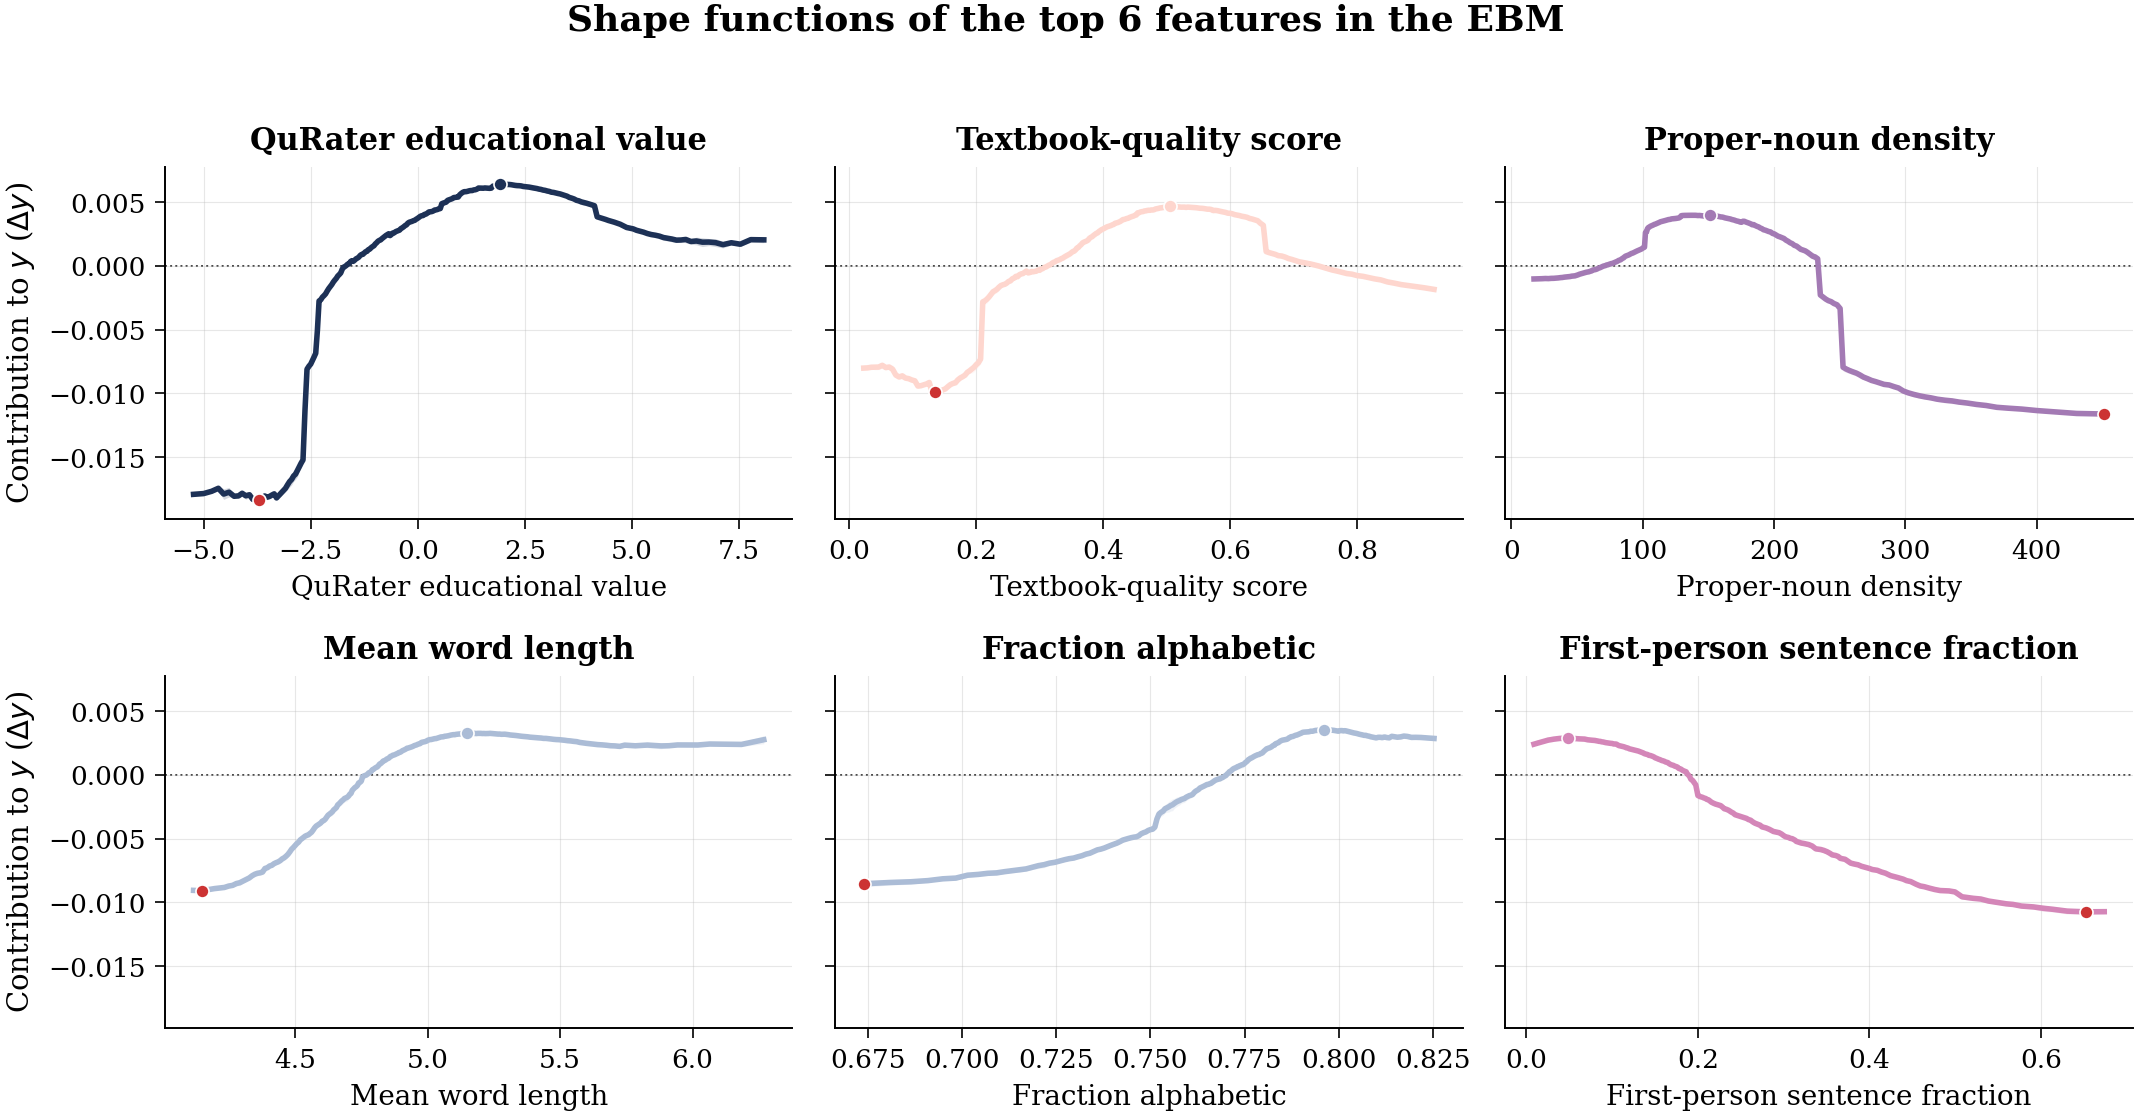
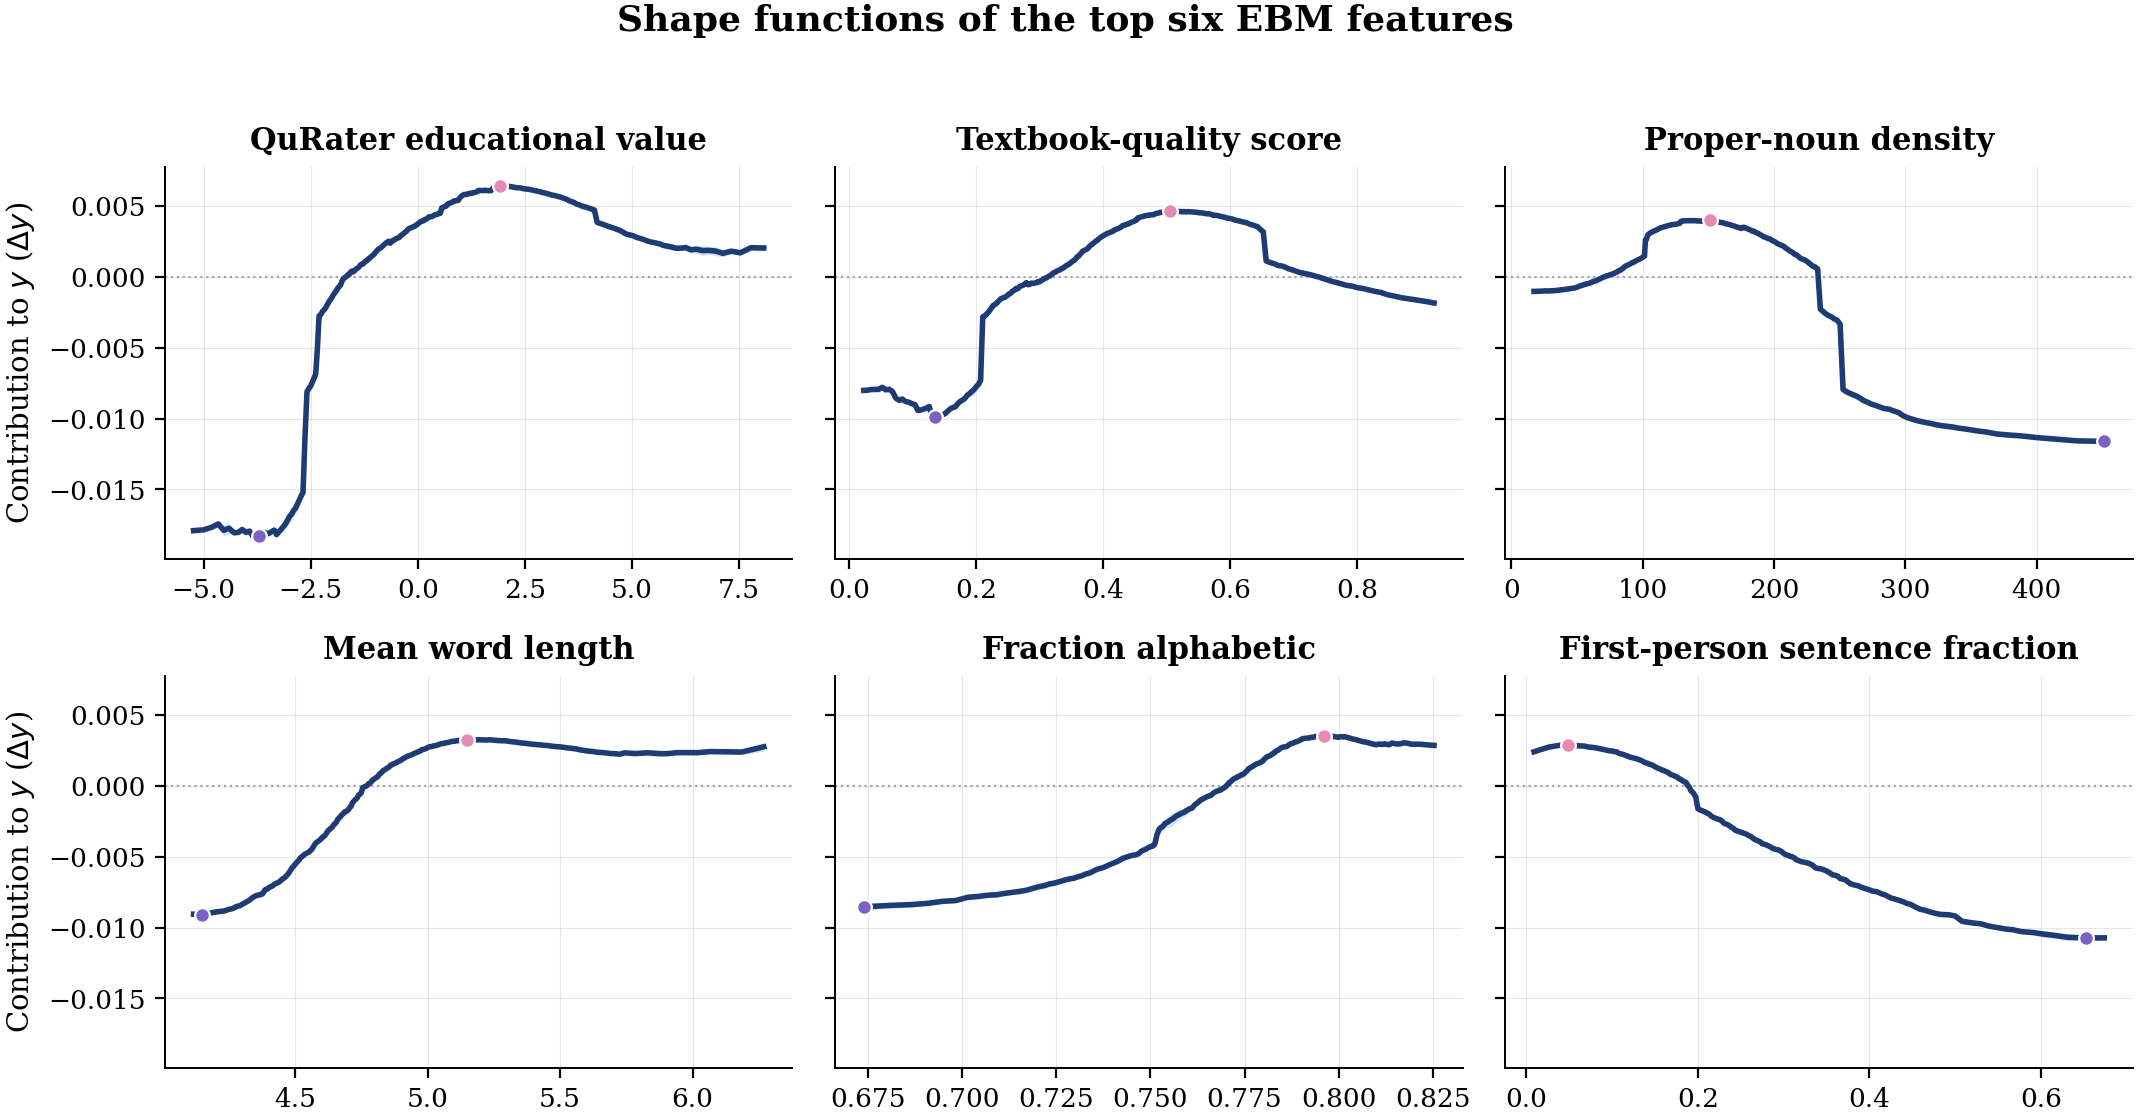
update readme and figures

diff --git a/pipeline/scripts/13_make_figures.py b/pipeline/scripts/13_make_figures.py
@@ -1,4 +1,4 @@
-"""Paper figures for the swarm target and the EBM.
+"""Figures for the swarm target and the EBM.
 
 Writes to figures/:
   swarm_val_loss.png    validation loss across the 593 diagnostic runs
@@ -30,6 +30,7 @@ HERE = Path(__file__).resolve().parents[1]
 sys.path.insert(0, str(HERE))
 from config import DATA_DIR, MASKS_DIR, MASTER_PARQUET, MODELS_DIR, RESULTS_DIR  # noqa: E402
 from pretrain_quality import paths  # noqa: E402
+from pretrain_quality.palette import DARK_BLUE, GRAY, LIGHT_BLUE, PINK, PURPLE  # noqa: E402
 
 OUT = paths.REPO_ROOT / "figures"
 
@@ -52,6 +53,7 @@ rcParams.update({
     "grid.color": "#bbbbbb",
     "savefig.bbox": "tight",
     "savefig.pad_inches": 0.02,
+    "savefig.facecolor": "white",
 })
 
 PRETTY_FEATURE = {
@@ -72,39 +74,17 @@ PRETTY_FEATURE = {
     "mean_line_length": "Mean line length",
 }
 
-FAMILY_COLOR = {
-    "QuRater": "#1d3156",
-    "Textbook": "#fed6ce",
-    "Entity": "#a37ab4",
-    "Structural": "#d486b8",
-    "Length": "#abbcd6",
-}
 
 RUN_TYPE = {  # selection family -> (colour, legend label)
-    "single_threshold": ("#f4a8a8", "single-feature threshold"),
-    "multi_intersection": ("#f6c79a", "multi-feature intersection"),
-    "linear_top": ("#f3e29a", "random linear combination"),
-    "linear_top_simple": ("#c7e6b2", "linear combination (simple)"),
-    "targeted_top": ("#a8d8c9", "targeted filter baselines"),
-    "within_topic_top": ("#a8c8ec", "within-topic top-k"),
-    "dclm_top_then_restrict": ("#c9b3e3", "DCLM-restricted"),
-    "random": ("#f1b6da", "random subset"),
+    "single_threshold": (DARK_BLUE, "single-feature threshold"),
+    "multi_intersection": (PURPLE, "multi-feature intersection"),
+    "linear_top": (PINK, "random linear combination"),
+    "linear_top_simple": (LIGHT_BLUE, "linear combination (simple)"),
+    "targeted_top": ("#4f6aa3", "targeted filter baselines"),
+    "within_topic_top": ("#b3a3e0", "within-topic top-k"),
+    "dclm_top_then_restrict": ("#f3bfd7", "DCLM-restricted"),
+    "random": (GRAY, "random subset"),
 }
-
-
-def feature_family(name: str) -> str:
-    if name.startswith("qr_"):
-        return "QuRater"
-    if name in ("textbook_quality", "ai_generated"):
-        return "Textbook"
-    if name in ("entity_density", "entity_diversity", "entity_per_sentence",
-                "proper_noun_density", "numeric_density"):
-        return "Entity"
-    if name.startswith(("discourse_", "explanation_", "question_", "pronoun_",
-                        "first_person_", "hedge_", "hapax_", "header_", "code_",
-                        "list_", "avg_paragraph", "flesch")):
-        return "Structural"
-    return "Length"
 
 
 def load_runs() -> pd.DataFrame:
@@ -178,20 +158,20 @@ def fig_target_overview(df: pd.DataFrame, y: np.ndarray, runs: pd.DataFrame) -> 
 
     fig, axes = plt.subplots(2, 3, figsize=(15, 9))
     ax = axes[0, 0]
-    ax.hist(y, bins=80, color="#4c78a8", edgecolor="white", linewidth=0.3)
+    ax.hist(y, bins=80, color=DARK_BLUE, edgecolor="white", linewidth=0.3)
     ax.axvline(0, color="k", ls="--", lw=1)
     ax.set_xlabel("Document contribution $y$")
     ax.set_ylabel("Documents")
     ax.set_title(f"Distribution of $y$ (n = {len(y):,})")
 
     ax = axes[0, 1]
-    ax.hist(coverage, bins=50, color="#f58518", edgecolor="white", linewidth=0.3)
+    ax.hist(coverage, bins=50, color=PURPLE, edgecolor="white", linewidth=0.3)
     ax.set_xlabel("Swarm runs that include the document")
     ax.set_ylabel("Documents")
     ax.set_title(f"Run coverage (mean {coverage.mean():.1f}, median {np.median(coverage):.0f})")
 
     ax = axes[0, 2]
-    ax.hist(runs["val_loss"], bins=40, color="#54a24b", edgecolor="white", linewidth=0.3)
+    ax.hist(runs["val_loss"], bins=40, color=PINK, edgecolor="white", linewidth=0.3)
     ax.set_xlabel("Validation loss")
     ax.set_ylabel("Runs")
     ax.set_title(f"Validation loss per run (n = {len(runs)})")
@@ -213,7 +193,7 @@ def fig_target_overview(df: pd.DataFrame, y: np.ndarray, runs: pd.DataFrame) -> 
     fwe = df["fwedu_rounded"].to_numpy()[ok].astype(int)
     ax.boxplot([y[ok][fwe == k] for k in range(6)], positions=range(6), widths=0.6,
                showfliers=False, patch_artist=True,
-               boxprops=dict(facecolor="#e45756", alpha=0.5))
+               boxprops=dict(facecolor=PINK, alpha=0.5))
     ax.axhline(0, color="k", ls="--", lw=1)
     ax.set_xlabel("FineWeb-Edu score (rounded, 0-5)")
     ax.set_ylabel("$y$")
@@ -232,16 +212,16 @@ def fig_calibration(df: pd.DataFrame, y: np.ndarray, in_pool: np.ndarray) -> Non
     r2 = 1 - ((y_te - p_te) ** 2).sum() / ((y_te - y_te.mean()) ** 2).sum()
 
     fig, ax = plt.subplots(figsize=(5.6, 4.4))
-    hb = ax.hexbin(p_te, y_te, gridsize=70, cmap="BuPu", mincnt=3,
+    hb = ax.hexbin(p_te, y_te, gridsize=70, cmap="Purples", mincnt=3,
                    extent=(-0.13, 0.11, -0.18, 0.14))
-    ax.plot((-0.18, 0.14), (-0.18, 0.14), color="#d486b8", lw=1.4, ls="--", label="y = ŷ")
+    ax.plot((-0.18, 0.14), (-0.18, 0.14), color=PINK, lw=1.4, ls="--", label="y = ŷ")
     bins = np.linspace(-0.10, 0.09, 22)
     which = np.digitize(p_te, bins) - 1
     mids = 0.5 * (bins[:-1] + bins[1:])
     means = np.array([y_te[which == i].mean() if (which == i).sum() > 50 else np.nan
                       for i in range(len(mids))])
-    ax.plot(mids, means, color="#1d3156", lw=2.4, marker="o", ms=4.5,
-            markerfacecolor="white", markeredgecolor="#1d3156", label="binned mean of y")
+    ax.plot(mids, means, color=DARK_BLUE, lw=2.4, marker="o", ms=4.5,
+            markerfacecolor="white", markeredgecolor=DARK_BLUE, label="binned mean of y")
     ax.set_xlim(-0.13, 0.11)
     ax.set_ylim(-0.18, 0.14)
     ax.set_xlabel(r"EBM (no perplexity-correlation) prediction $\hat{y}$")
@@ -272,20 +252,17 @@ def fig_ebm_shapes() -> None:
         lo, hi = np.quantile(edges, [0.01, 0.99])  # trim long tails for legibility
         keep = (mids >= lo) & (mids <= hi)
         x, s = mids[keep], scores[keep]
-        c = FAMILY_COLOR[feature_family(feat)]
         if sd.get("upper_bounds") is not None:
             ax.fill_between(x, np.asarray(sd["lower_bounds"], float)[keep],
                             np.asarray(sd["upper_bounds"], float)[keep],
-                            color=c, alpha=0.18, linewidth=0)
-        ax.plot(x, s, color=c, lw=2.0)
-        ax.axhline(0, color="#444", ls=":", lw=0.7, zorder=0)
-        ax.scatter([x[np.argmax(s)]], [s.max()], s=22, color=c, zorder=5,
-                   edgecolor="white", linewidths=0.6)
-        ax.scatter([x[np.argmin(s)]], [s.min()], s=22, color="#cc3333", zorder=5,
-                   edgecolor="white", linewidths=0.6)
-        label = PRETTY_FEATURE.get(feat, feat)
-        ax.set_xlabel(label, fontsize=10)
-        ax.set_title(label.split(" (")[0], fontsize=11)
+                            color=LIGHT_BLUE, alpha=0.45, linewidth=0)
+        ax.plot(x, s, color=DARK_BLUE, lw=2.0)
+        ax.axhline(0, color=GRAY, ls=":", lw=0.8, zorder=0)
+        ax.scatter([x[np.argmax(s)]], [s.max()], s=28, color=PINK, zorder=5,
+                   edgecolor="white", linewidths=0.8)
+        ax.scatter([x[np.argmin(s)]], [s.min()], s=28, color=PURPLE, zorder=5,
+                   edgecolor="white", linewidths=0.8)
+        ax.set_title(PRETTY_FEATURE.get(feat, feat), fontsize=11)
     for ax in axes[:, 0]:
         ax.set_ylabel(r"Contribution to $y$ ($\Delta y$)")
     fig.suptitle("Shape functions of the top six EBM features", fontsize=13,

diff --git a/pipeline/influence/task.py b/pipeline/influence/task.py
@@ -5,10 +5,10 @@ Adapted from `kronfluence/examples/openwebtext/task.py`. Correctness notes:
 - Summed token cross-entropy (`reduction="sum"`), required for the
   Fisher = Gauss-Newton equivalence that EK-FAC relies on.
 - `sample=True` draws targets from the model's own predictive distribution
-  (true Fisher), NOT the training labels (which would give the worse empirical
+  (true Fisher), not the training labels (which would give the worse empirical
   Fisher). This is the single most common source of silently-wrong EK-FAC
   factors, so it is implemented explicitly here.
-- Only the MLP / feed-forward linear layers are tracked (paper default;
+- Only the MLP / feed-forward linear layers are tracked (the EK-FAC default;
   `model.layers.{i}.mlp.{gate_proj,up_proj,down_proj}` for HF Llama).
 """
 from __future__ import annotations

diff --git a/pipeline/factor_model/config.py b/pipeline/factor_model/config.py
@@ -1,4 +1,4 @@
-"""Paths and constants for the latent-factor model of filter scores (paper Sections 3.1, 4.1, 5.1).
+"""Paths and constants for the latent-factor model of filter scores.
 
 Inputs come from the feature stage ($PQ_FEATURES_DIR: annotations.parquet, sampled_shards.json,
 features/, scores_pc/, scores_qurater/); all artifacts go to $PQ_WORK_DIR/factor_model.

diff --git a/pipeline/eda/filter_correlations.py b/pipeline/eda/filter_correlations.py
@@ -1,4 +1,4 @@
-"""Exploratory analysis of the ten quality filters (paper Section 2.2, Figure 1).
+"""Exploratory analysis of the ten quality filters.
 
 Computes pairwise Spearman correlations between the filter scores over all documents and
 within topics (correlation of within-topic percentile ranks), and plots raw scores against

diff --git a/pipeline/factor_model/07_evaluate_policies.py b/pipeline/factor_model/07_evaluate_policies.py
@@ -1,5 +1,5 @@
 """Top-20% selection policies on held-out documents: random, global DCLM, hierarchical, one- and
-two-factor posterior, with and without a within-topic floor (paper Table 1).
+two-factor posterior, with and without a within-topic floor.
 """
 from __future__ import annotations
 

diff --git a/pipeline/factor_model/06_fit_two_factor_em.py b/pipeline/factor_model/06_fit_two_factor_em.py
@@ -1,4 +1,4 @@
-"""Two-factor Gaussian measurement model of the filter scores, fit by EM (paper Sections 3.1 and 4.1).
+"""Two-factor Gaussian measurement model of the filter scores,, fit by EM.
 
     h_i | z_i ~ N(Gamma^T z_i, I),    s_i | h_i ~ N(alpha + Lambda h_i, diag(psi))
 """

diff --git a/pipeline/factor_model/08_quality_diversity_frontier.py b/pipeline/factor_model/08_quality_diversity_frontier.py
@@ -1,5 +1,4 @@
-"""Quality-diversity frontier of the two-factor posterior policy as the within-topic floor varies
-(paper Figure 3, right).
+"""Quality-diversity frontier of the two-factor posterior policy as the within-topic floor varies.
 """
 from __future__ import annotations
 

diff --git a/pipeline/factor_model/10_plot_factor_loadings.py b/pipeline/factor_model/10_plot_factor_loadings.py
@@ -1,4 +1,4 @@
-"""Bar chart of the two-factor MAP loadings (paper Figure 3, left).
+"""Bar chart of the two-factor MAP loadings.
 """
 from __future__ import annotations
 

diff --git a/src/pretrain_quality/palette.py b/src/pretrain_quality/palette.py
@@ -1,0 +1,7 @@
+"""Colour palette shared by all figures."""
+
+PURPLE = "#7B61C4"
+PINK = "#E58AB4"
+DARK_BLUE = "#1F3B73"
+LIGHT_BLUE = "#8FC1EC"
+GRAY = "#9CA3AF"

diff --git a/README.md b/README.md
@@ -4,16 +4,14 @@ Angikar Ghosal, Kaitlyn Wang<br>
 Stanford University<br>
 STATS 305C
 
-We study which readable properties of a web document make it useful pretraining data, using
-2.26M documents from [WebOrganizer/Corpus-200B](https://huggingface.co/datasets/WebOrganizer/Corpus-200B).
-
-The work has two stages:
-1. We take ten existing quality filters as the target and fit a two-factor latent model by EM.
-   It recovers a benchmark axis and a generative-quality axis.
-2. We train a swarm of 593 small LMs on random document subsets and estimate each document's
-   contribution to validation loss by difference in means. An interpretable EBM then predicts
-   that target from readable features, and we test it as a data-selection rule on held-out
-   shards.
+Pretraining data filters disagree on which web documents are "high quality", and their scores
+are hard to interpret. Using 2.26M documents from
+[WebOrganizer/Corpus-200B](https://huggingface.co/datasets/WebOrganizer/Corpus-200B), we first
+model ten existing filters with a two-factor latent model fit by EM. We then train 593 small LMs
+on random document subsets to measure each document's effect on validation loss, and predict
+that effect from readable features with an Explainable Boosting Machine (EBM). The EBM reaches
+a test R² of 0.656, and applied within topics it selects data with lower validation loss than
+random selection.
 
 ```mermaid
 flowchart LR
@@ -29,54 +27,33 @@ flowchart LR
 
 ## Results
 
-Predicting the swarm target on about 412K held-out documents:
-
-| model | test R² |
+| Predicting y (held-out documents) | Test R² ↑ |
 |---|---:|
-| topic only | 0.076 |
+| Topic only | 0.076 |
 | Lasso | 0.408 |
-| EBM, human-readable features | 0.656 |
-| EBM, all features | 0.668 |
+| EBM, no perplexity-correlation features | 0.656 |
+| EBM, all features | **0.668** |
 
-- **Stage 1:** a top-20% selection by the two-factor posterior reaches quality 0.680, against
-  0.405 for global DCLM.
-- **Held-out selection:** 60M LMs train on 150M-token selections from 30 fresh shards.
-  Applying the EBM within topics gives the lowest CommonCrawl validation loss (3.873, vs.
-  3.884 for random). DCLM is best on ARC-Easy and LAMBADA.
+| Selection policy (60M LMs, 150M tokens) | CC val loss ↓ | ARC-Easy ↑ |
+|---|---:|---:|
+| EBM within topics | **3.873** | 0.316 |
+| Random | 3.884 | 0.349 |
+| FineWeb-Edu | 3.967 | 0.365 |
+| DCLM | 4.006 | **0.379** |
 
-Full tables are in the paper.
+The two-factor model's top-20% selection reaches a held-out quality of 0.680, against 0.405
+for DCLM.
+
+![EBM shape functions](figures/ebm_shapes.png)
 
 ## Quickstart
 
-The quickstart runs on CPU in about a minute, using a bundled sample of 10K held-out
-documents with their swarm targets.
-
 ```bash
-git clone https://github.com/kkaitlyn111/pretrain-quality.git
-cd pretrain-quality
-make quickstart
+git clone https://github.com/kkaitlyn111/pretrain-quality.git && cd pretrain-quality
+make quickstart   # feature extraction and EBM fit on a bundled 10K-document sample (CPU, ~1 min)
 ```
 
-```text
-[extract] check vs. full-pipeline values: 100.00% of doc x feature cells match
-[fit] bundled full-data EBM-no-PC (trained on 1.65M docs), R^2 on these held-out docs: 0.662
-      Lasso       R^2 = 0.418
-      EBM-no-PC   R^2 = 0.645
-```
-
-The full cluster pipeline is described in [pipeline/README.md](pipeline/README.md).
-
-## Repository layout
-
-```text
-├── report/paper.pdf        the paper
-├── src/pretrain_quality/   feature code and the `pq extract` / `pq fit` quickstart
-├── pipeline/               full pipeline: features, EDA, factor model, swarm, EBM, validation
-├── data/sample/            10K-document sample with targets
-├── models/                 full-data EBM
-├── results/  figures/      result tables and paper figures
-└── tests/
-```
+The full pipeline is described in [pipeline/README.md](pipeline/README.md).
 
 ## Acknowledgements
 
@@ -102,7 +79,4 @@ The paper is in [report/paper.pdf](report/paper.pdf).
 }
 ```
 
-## License
-
-The code is released under the MIT license ([LICENSE](LICENSE)). The bundled sample text and
-third-party model outputs keep their original terms ([NOTICE.md](NOTICE.md)).
+The code is released under the MIT license ([LICENSE](LICENSE)).

diff --git a/pipeline/README.md b/pipeline/README.md
@@ -16,10 +16,10 @@ Submit the `pipeline/slurm/*.sh` scripts from the repository root; they source
 | directory | contents |
 |---|---|
 | `features/` | per-shard feature extraction over Corpus-200B |
-| `eda/` | filter-score correlations (paper Section 2.2) |
-| `factor_model/` | two-factor latent measurement model and selection policies (Sections 3.1, 4.1, 5.1) |
-| `scripts/` | swarm target, EBM, downstream validation and figures (Sections 3.2–5.3) |
-| `influence/` | EK-FAC influence target, reported as a negative result in Section 6 |
+| `eda/` | filter-score correlations |
+| `factor_model/` | two-factor latent measurement model and selection policies |
+| `scripts/` | swarm target, EBM, downstream validation and figures |
+| `influence/` | EK-FAC influence target (an alternative to the swarm target; negative result) |
 | `slurm/` | SLURM wrappers |
 
 ## 1. Corpus and shard sample
@@ -60,7 +60,7 @@ python pipeline/scripts/03_build_master.py          # -> $PQ_WORK_DIR/master.par
 ## 3. Exploratory analysis
 
 ```bash
-python pipeline/eda/filter_correlations.py          # global vs. within-topic Spearman, Figure 1
+python pipeline/eda/filter_correlations.py          # global vs. within-topic Spearman
 ```
 
 ## 4. Two-factor latent measurement model
@@ -76,10 +76,10 @@ python $D/03_fit_baselines.py                       # covariate-only baselines
 python $D/04_fit_hierarchical_gibbs.py              # hierarchical regression (reference frontier)
 python $D/05_fit_one_factor_em.py --iterations 200  # one-factor ablation
 python $D/06_fit_two_factor_em.py --iterations 300  # two-factor model (EM)
-python $D/07_evaluate_policies.py                   # Table 1
-python $D/08_quality_diversity_frontier.py          # Figure 3, right
+python $D/07_evaluate_policies.py                   # selection policies
+python $D/08_quality_diversity_frontier.py          # quality-diversity frontier
 python $D/09_policy_robustness.py                   # bootstrap confidence intervals
-python $D/10_plot_factor_loadings.py                # Figure 3, left
+python $D/10_plot_factor_loadings.py                # factor loadings
 ```
 
 Artifacts are written to `$PQ_WORK_DIR/factor_model/`.

diff --git a/pipeline/influence/RUNBOOK.md b/pipeline/influence/RUNBOOK.md
@@ -4,7 +4,7 @@ This pipeline is an alternative to the swarm's difference-in-means target. It sc
 training document with a single-model EK-FAC influence function
 ([kronfluence](https://github.com/pomonam/kronfluence)) and refits the EBM on that score.
 
-The paper reports this as a negative result (Section 6). A 100M-parameter model trained on
+This approach gave a negative result. A 100M-parameter model trained on
 the full 1.8B-token pool gives one influence score per document, but these scores predict the
 swarm target *y* with held-out R² of only about 0.2. At this model size, influence functions
 are not a substitute for randomized swarms.
